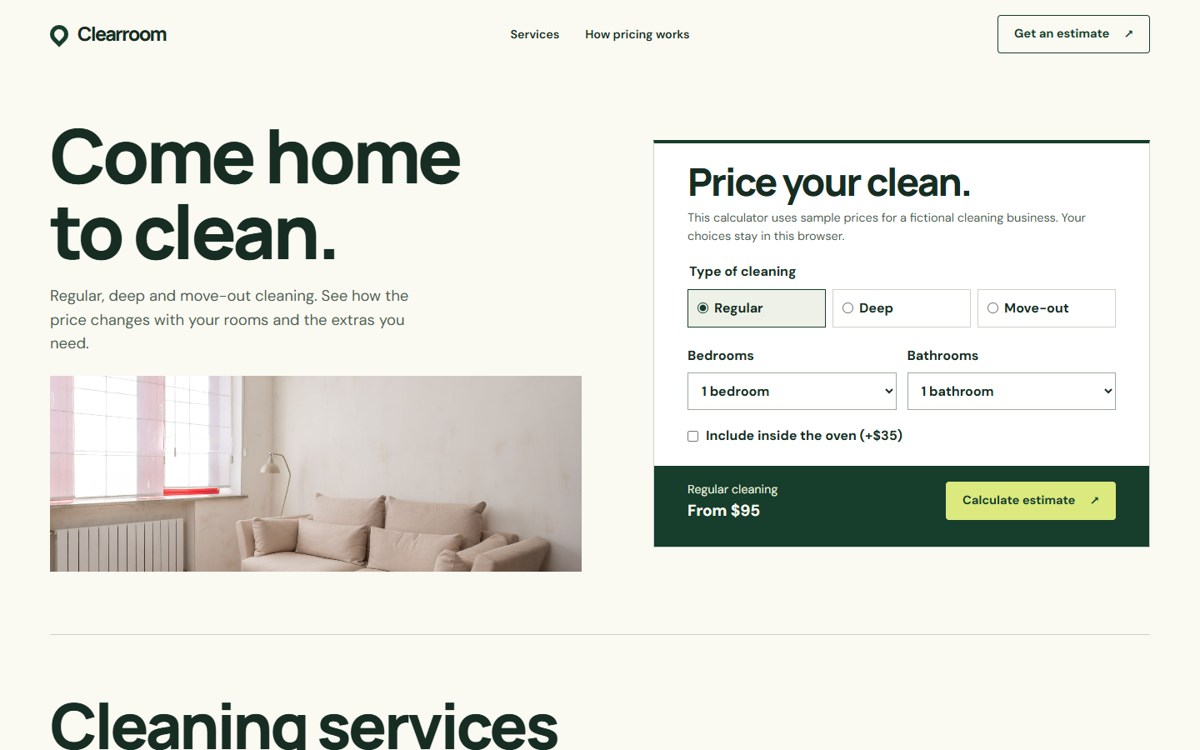
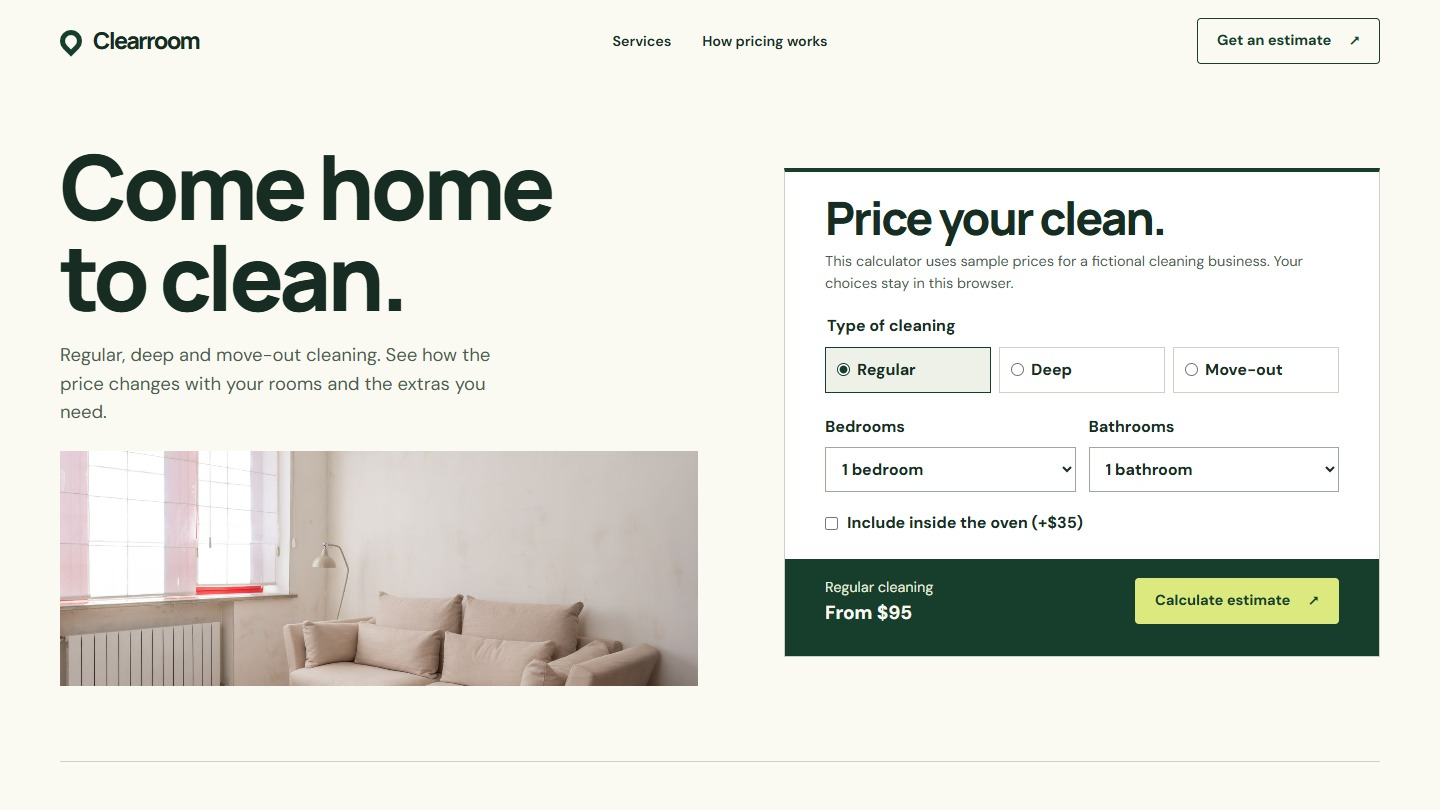
Add studio contact to website portfolio

diff --git a/index.html b/index.html
@@ -3,18 +3,23 @@
 <head>
   <meta charset="utf-8">
   <meta name="viewport" content="width=device-width, initial-scale=1">
-  <meta name="description" content="Two small service website demos. Explore a cleaning quote calculator and a salon booking page.">
-  <title>Service website demos</title>
+  <meta name="description" content="Polyakov Studio builds websites for service businesses. Try a cleaning estimate or explore a salon booking demo.">
+  <title>Websites for service businesses | Polyakov Studio</title>
   <style>
     * { box-sizing: border-box; }
     body { margin: 0; color: #172821; background: #f4f3ec; font: 1rem/1.55 system-ui, sans-serif; }
-    main { width: min(64rem, 100% - 2.5rem); margin: auto; padding: clamp(2.5rem, 7vw, 5rem) 0; }
+    .masthead, main { width: min(64rem, 100% - 2.5rem); margin: auto; }
+    .masthead { display: flex; align-items: center; justify-content: space-between; gap: 1rem; padding: 1.25rem 0; border-bottom: 1px solid #d8ded3; }
+    .studio-name { font-weight: 700; }
+    .contact { display: inline-flex; align-items: center; min-height: 44px; padding: .5rem .875rem; border-radius: .375rem; color: white; background: #184932; text-decoration: none; text-align: center; }
+    .contact:hover { background: #102e21; }
+    main { padding: clamp(2rem, 5vw, 4rem) 0; }
     h1, h2 { font-family: Georgia, serif; font-weight: 400; line-height: 1.08; }
-    h1 { margin: 0; font-size: clamp(2.6rem, 7vw, 5.4rem); letter-spacing: -.055em; }
+    h1 { margin: 0; font-size: clamp(2.6rem, 6vw, 4.4rem); letter-spacing: -.055em; text-wrap: balance; }
     main > p { max-width: 43rem; color: #46574c; }
     .demos { display: grid; grid-template-columns: repeat(auto-fit, minmax(min(100%, 22rem), 1fr)); gap: 1.25rem; margin-top: 2.5rem; }
     article { position: relative; display: flex; flex-direction: column; overflow: hidden; border: 1px solid #d8ded3; border-radius: 1rem; background: #fff; }
-    .preview { aspect-ratio: 16/10; overflow: hidden; background: #dbe5db; }
+    .preview { aspect-ratio: 16/9; overflow: hidden; background: #dbe5db; }
     .salon { background: #e9dcd8; }
     img { display: block; width: 100%; height: 100%; object-fit: cover; }
     .copy { flex: 1; display: flex; flex-direction: column; align-items: flex-start; padding: 1.5rem; }
@@ -26,9 +31,13 @@
   </style>
 </head>
 <body>
+  <header class="masthead">
+    <span class="studio-name">Polyakov Studio</span>
+    <a class="contact" href="mailto:s4s4spol@gmail.com?subject=Website%20project">Discuss a project</a>
+  </header>
   <main>
-    <h1>Service website demos</h1>
-    <p>Two examples of how a customer can estimate a cleaning visit or find the right salon service on a phone.</p>
+    <h1>Websites for service businesses</h1>
+    <p>Try two examples of what your customers could do on a site we build: get a cleaning estimate or find a time for a haircut.</p>
     <div class="demos">
       <article>
         <div class="preview"><img src="clearroom-preview.jpg" alt="Clearroom home page with a cleaning estimate calculator"></div>
